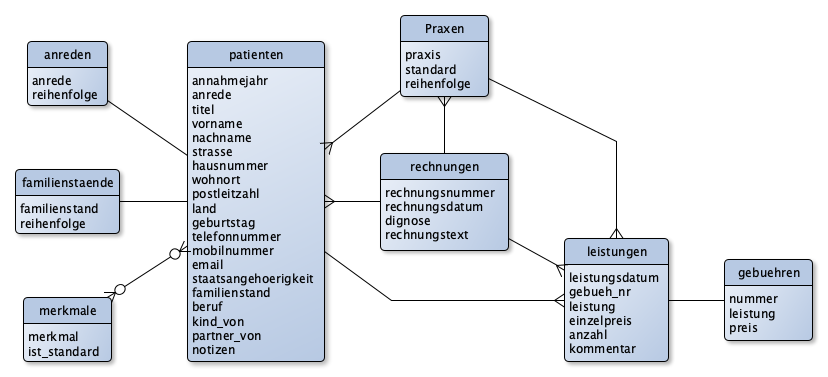
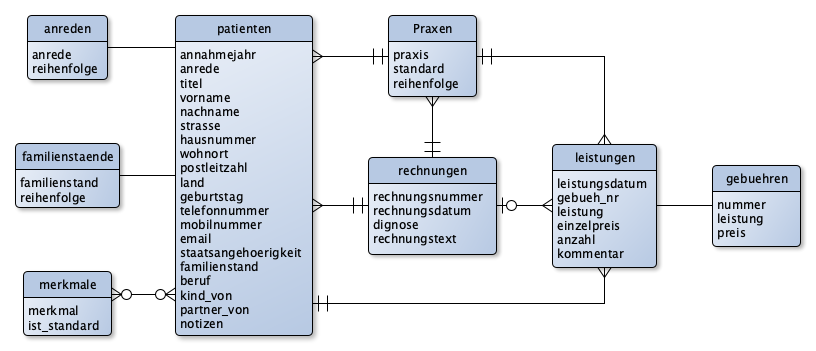
Abbildung Schema vereinfacht und Constraints konkretisiert

diff --git a/Naturheilpraxis/ViewController.swift b/Naturheilpraxis/ViewController.swift
@@ -24,7 +24,7 @@ class ViewController: NSViewController {
         }
         
         //insertNewPatient()
-        fetchPatienten()
+        //fetchPatienten()
         
         // Do any additional setup after loading the view.
     }
